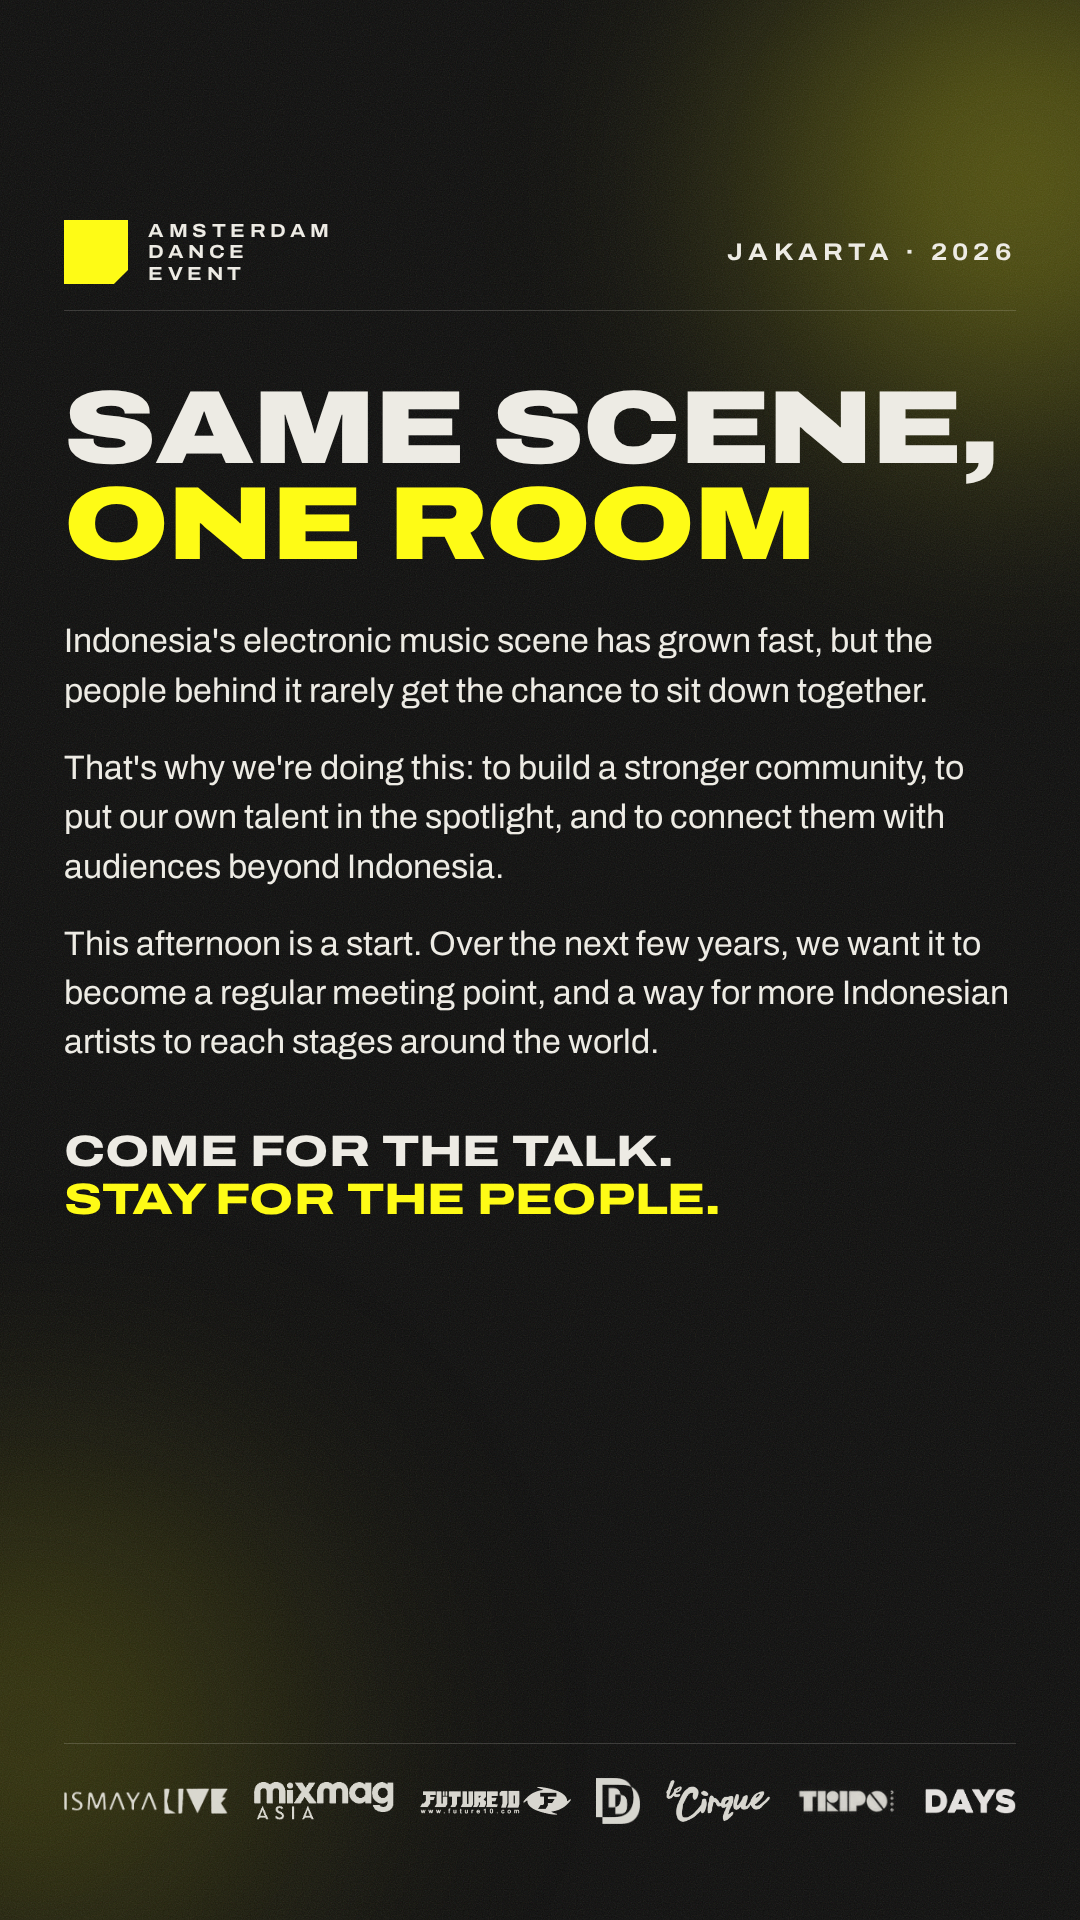
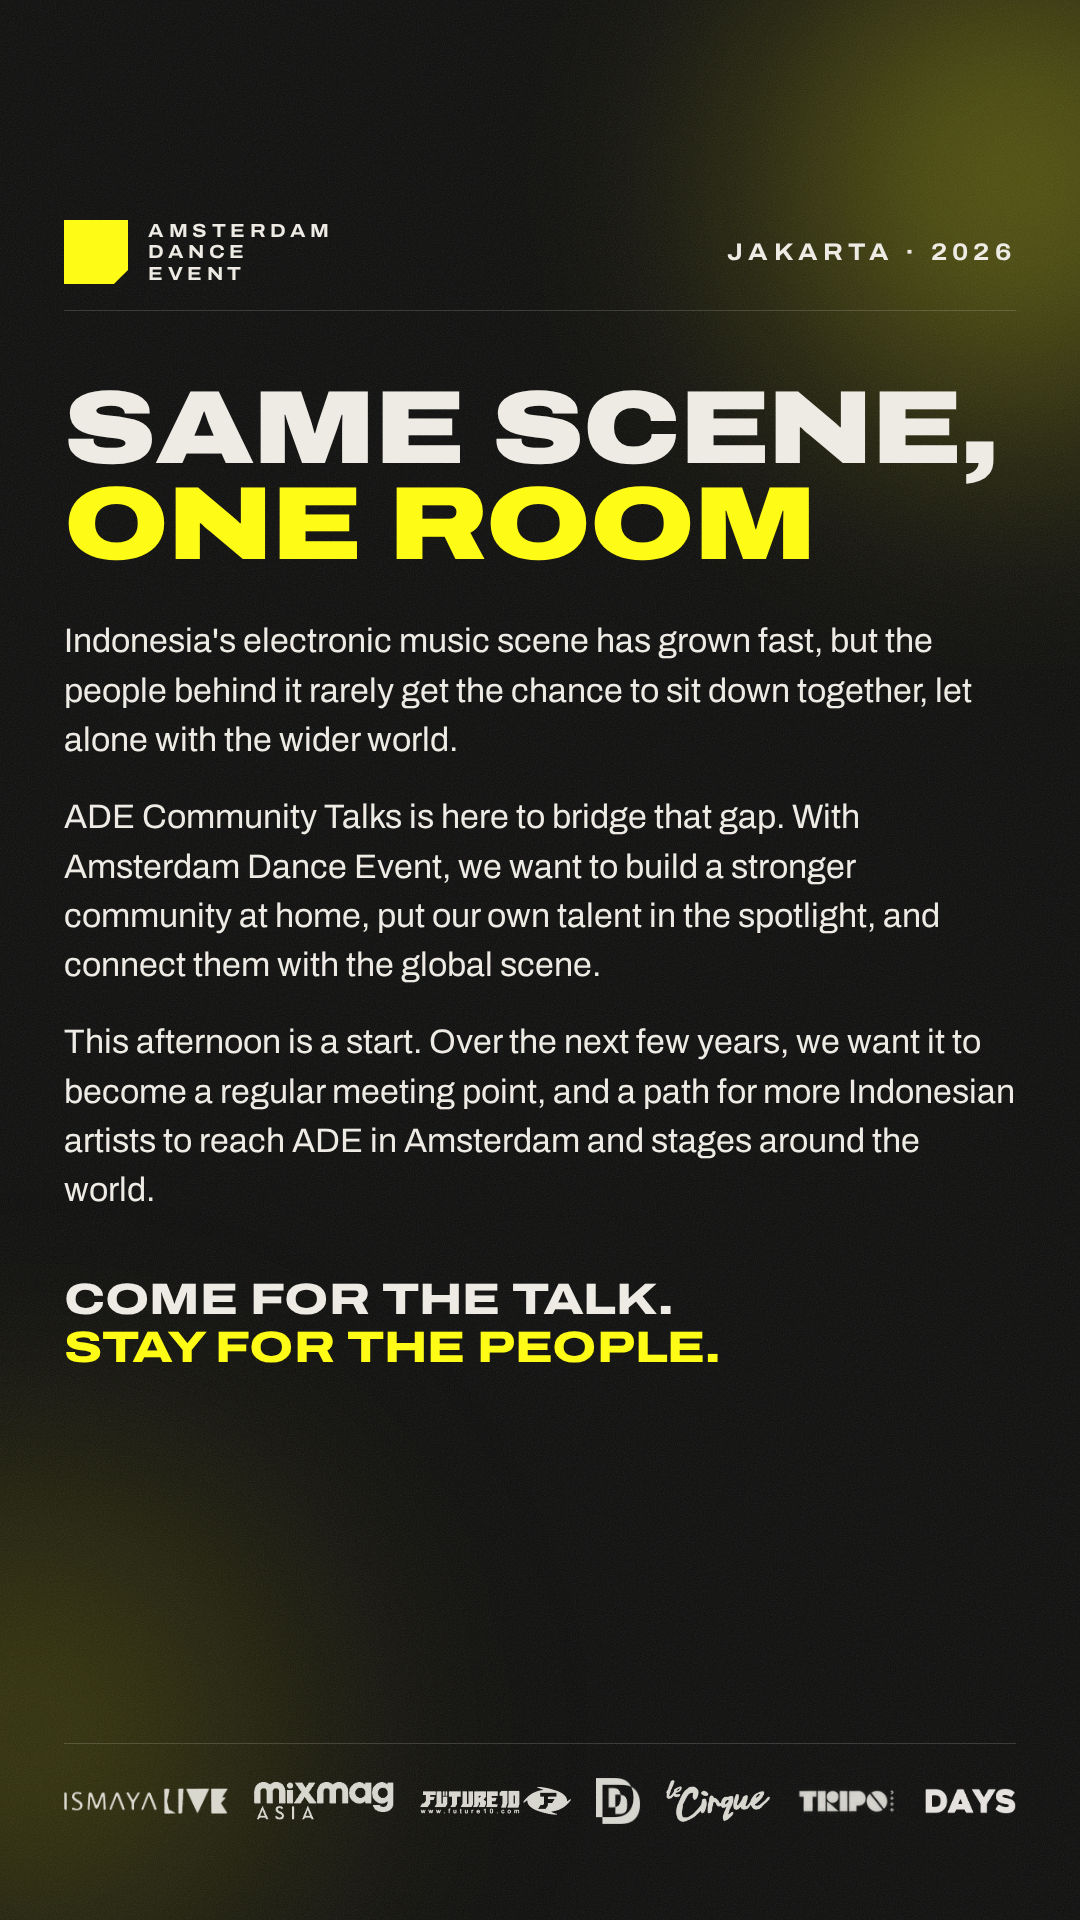
ADE scene page: frame the event as a bridge between Indonesia's scene and ADE
Claude-Session: https://claude.ai/code/session_01Sc5gF2HRFqjLpMQDrx7aqZ

Changed region(s): [[0.0611, 0.3438, 0.9472, 0.7188]]

diff --git a/events/ade-community-talks-2026/03-scene.html b/events/ade-community-talks-2026/03-scene.html
@@ -10,9 +10,9 @@
 
   <div class="display" style="font-size:104px;line-height:.92;margin-top:70px">Same scene,<br><em>one room</em></div>
 
-  <div class="body" style="margin-top:44px">Indonesia's electronic music scene has grown fast, but the people behind it rarely get the chance to sit down together.</div>
-  <div class="body" style="margin-top:28px">That's why we're doing this: to build a stronger community, to put our own talent in the spotlight, and to connect them with audiences beyond Indonesia.</div>
-  <div class="body" style="margin-top:28px">This afternoon is a start. Over the next few years, we want it to become a regular meeting point, and a way for more Indonesian artists to reach stages around the world.</div>
+  <div class="body" style="margin-top:44px">Indonesia's electronic music scene has grown fast, but the people behind it rarely get the chance to sit down together, let alone with the wider world.</div>
+  <div class="body" style="margin-top:28px">ADE Community Talks is here to bridge that gap. With Amsterdam Dance Event, we want to build a stronger community at home, put our own talent in the spotlight, and connect them with the global scene.</div>
+  <div class="body" style="margin-top:28px">This afternoon is a start. Over the next few years, we want it to become a regular meeting point, and a path for more Indonesian artists to reach ADE in Amsterdam and stages around the world.</div>
 
   <div class="display" style="font-size:44px;font-weight:800;margin-top:60px">Come for the talk.<br><em>Stay for the people.</em></div>
 
